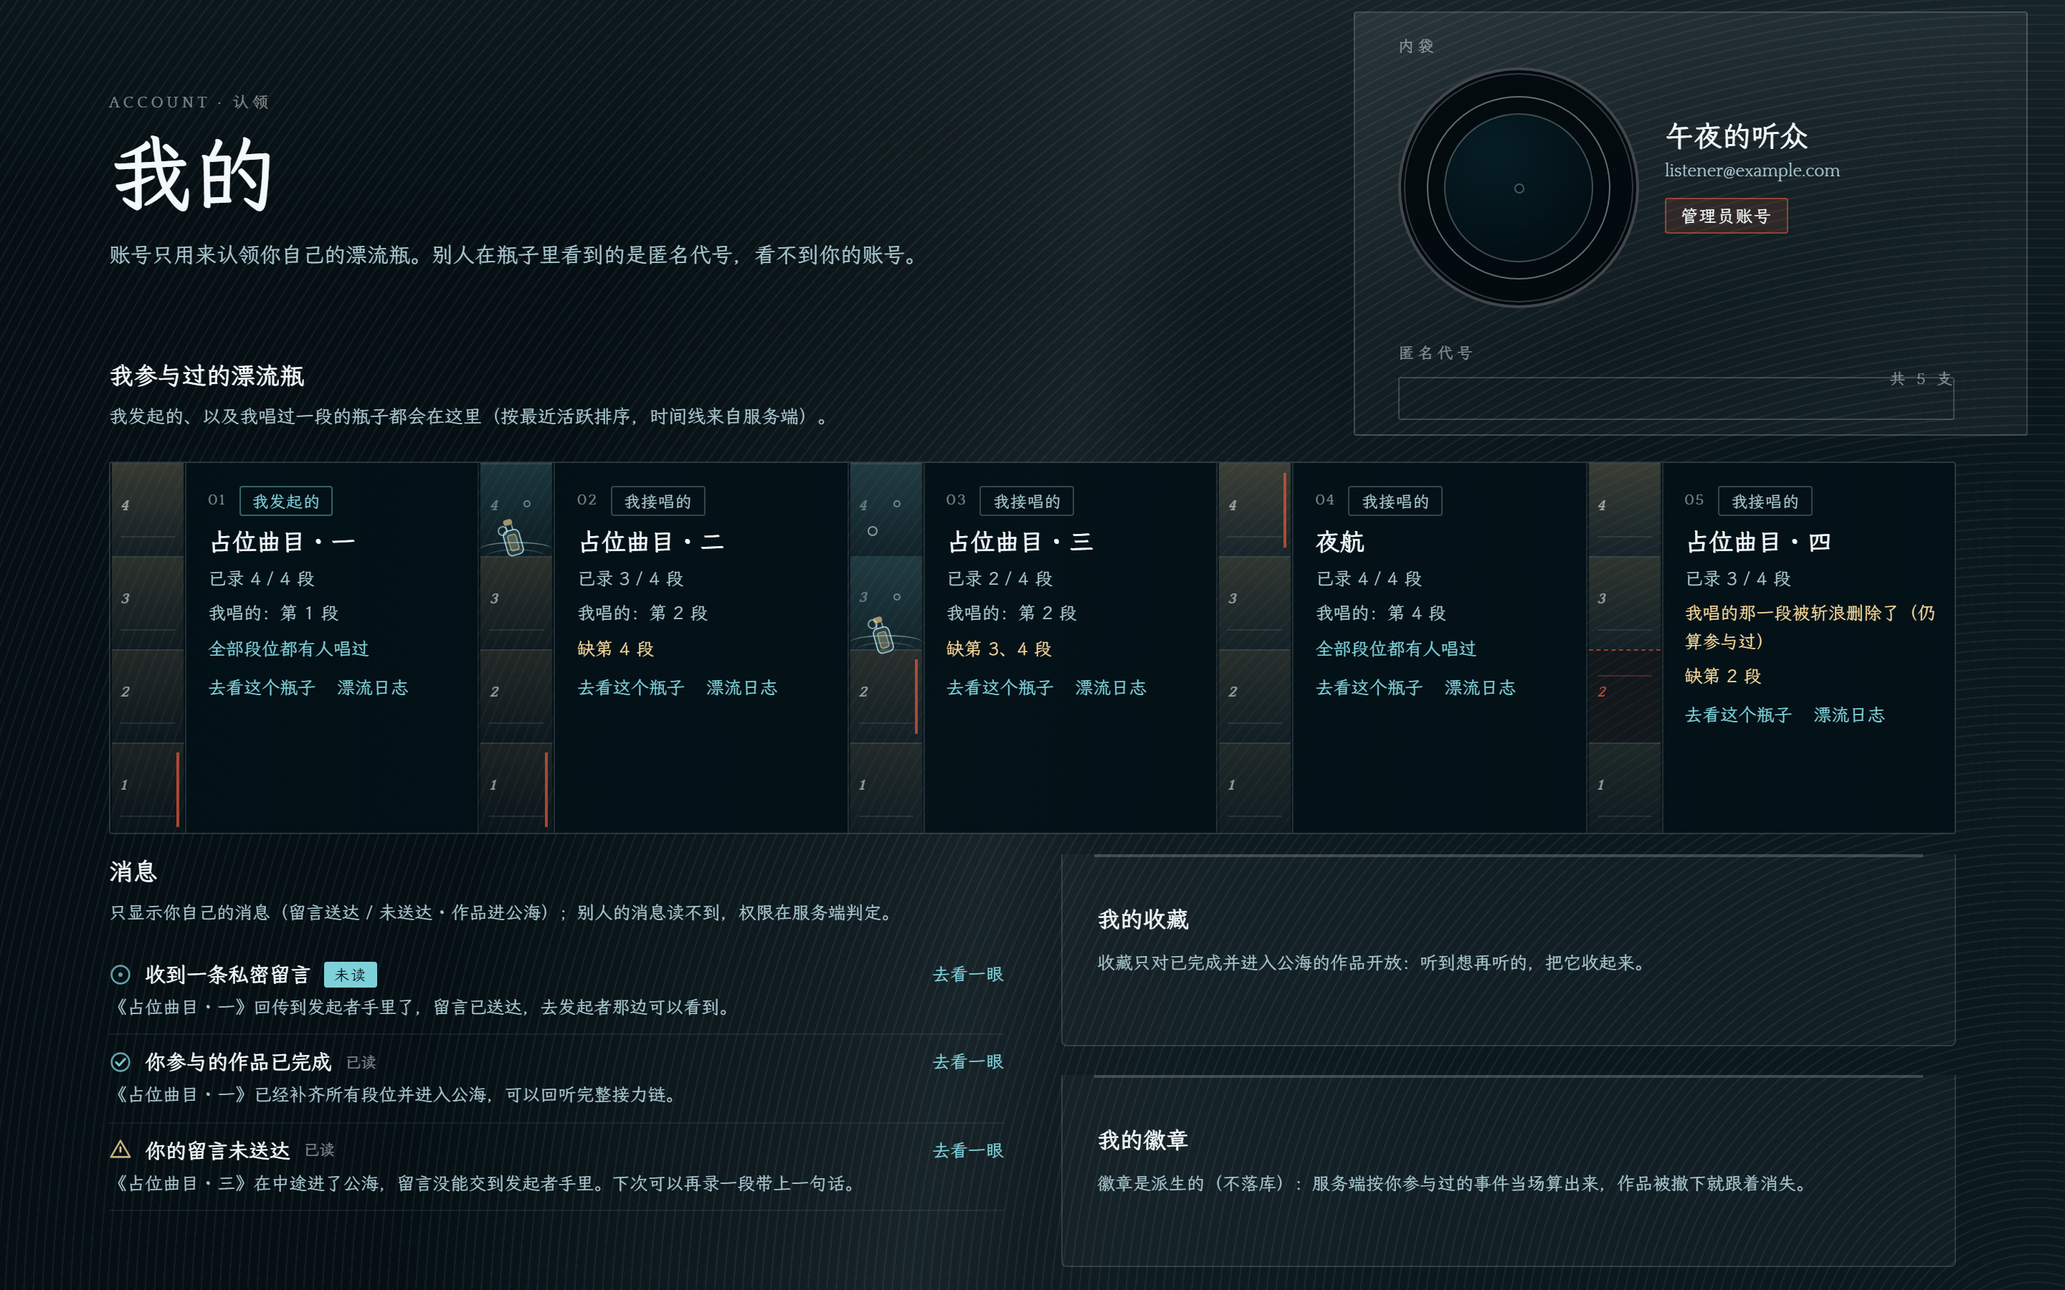
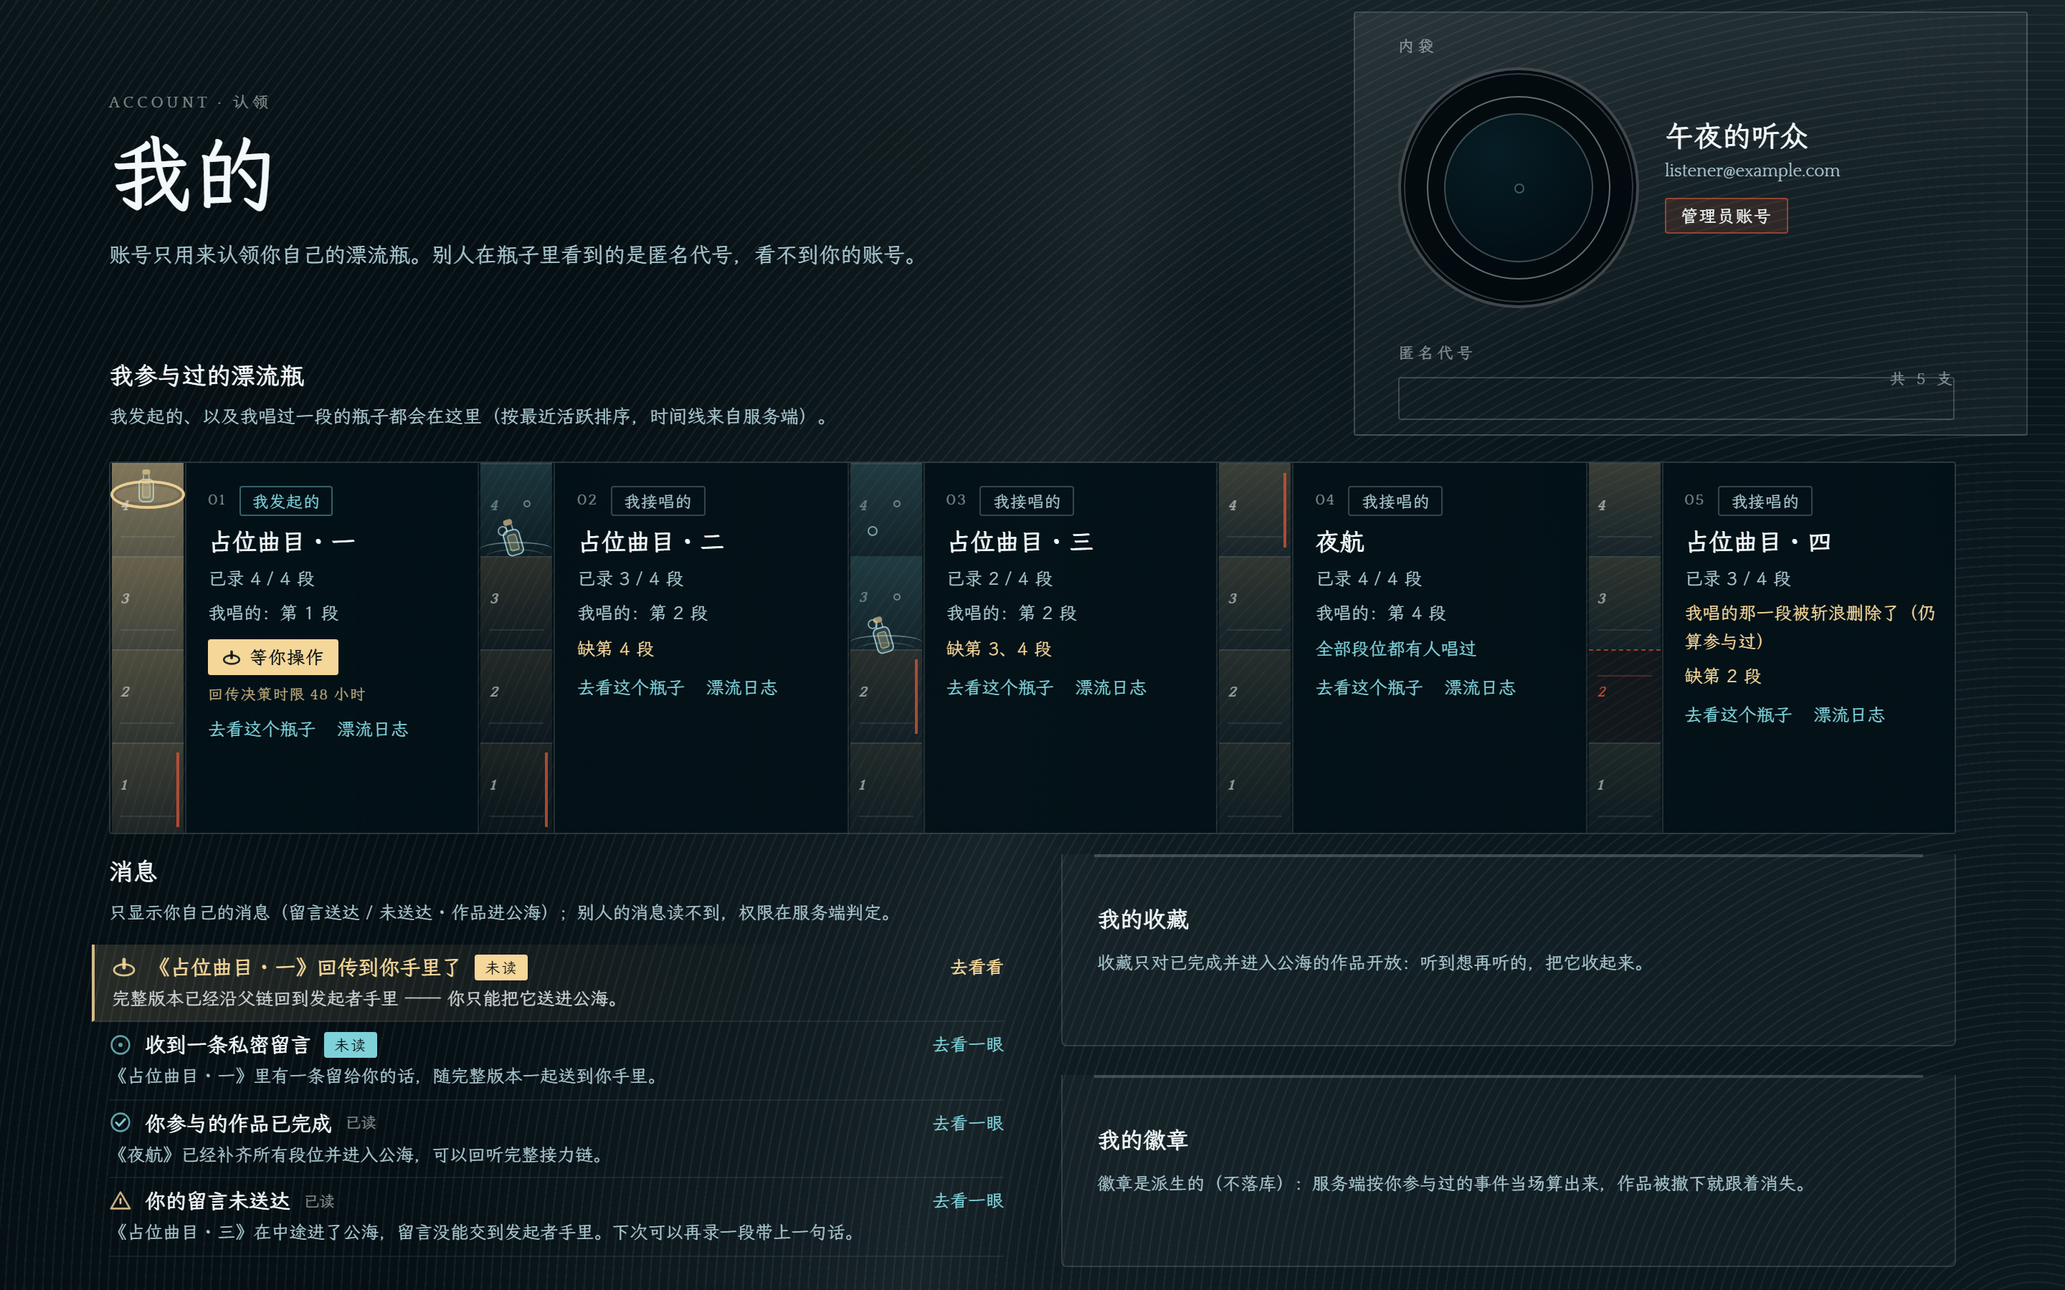
docs: 落地实施计划 —— 把 record-v1 定稿实现为真实前端（含契约重写授权、迁移策略、8 个切片）
用户裁决：现在就把 11 页定稿实现为真实前端；先不改后端；现在就做响应式（375 不再推后）；授权重写 DESIGN.md 契约。

计划里先讲清三条会翻车的硬约束：① 设计稿是 1440x900 固定画布绝对定位，真实前端必须响应式（375 不溢出 / 网格 768 折单列 / 可点 ≥44px / 页面禁内联 hex）—— 所以这是『保留语言与装置、重排布局』而不是翻译像素；② 契约是唯一真相且被 tokens.test.ts 机器守卫（front matter colors 形状固定、≥30 条、theme.css 不得出现色板外 hex）；③ 不能大爆炸换色板（现有 12 页大量用旧 token 类名，一次换名整个 app 编译不过）⇒ 采用**别名 re-point 过渡**，逐片迁移，最后删别名并加『禁旧名』守卫。

并按要求**逐条列出必须改的守卫**（G1 rounded 基准 12px→2px；G2 语义键保留断言只换值；G3 theme.css 禁色板外 hex 保持不变；G4 design-discipline 不放宽、375 规则现在生效；G5 各页测试随切片更新）。8 个切片：S1 契约底座 / S2 母题与组件层 / S3 河道页 / S4 瓶子详情+选歌 / S5 公海两页 / S6 我的+设置+404 / S7 登录+审核台 / S8 收尾删别名。

diff --git a/docs/ui-review/design-explore/p-profile-record.html b/docs/ui-review/design-explore/p-profile-record.html
@@ -91,6 +91,16 @@
       .float { position:absolute; left:14px; z-index:3; }
       .f200 { bottom:192px; }
       .f133 { bottom:124px; }
+      /* ── 回航泊位：全页只有"沿父链回到我手里、正等我发落"的那一支有 ——
+             水面的光只打在它这一格上（其余四支还沉在水下），
+             柱口套一枚暖色系缆环，瓶子不再斜漂、立在环里；
+             环与文字区那枚暖牌是同一个记号，一个在柱上、一个在字里。 ─────── */
+      .lay .shaft { left:0; top:0; width:50px; height:260px;
+        background:linear-gradient(180deg, rgba(246,215,154,.38), rgba(246,215,154,.20) 52%, rgba(246,215,154,.09)); }
+      .lay .hoop { left:-1px; top:12px; width:52px; height:20px; border-radius:50%; z-index:4;
+        border:2px solid rgba(246,215,154,.9); }
+      .lay .hoop::before { content:''; position:absolute; inset:2px; border-radius:50%; background:rgba(246,215,154,.14); }
+      .fstand { left:17px; top:3px; }
       /* 文字压在暗色渐变上：柱子在左，文字在右，互不打架 */
       .veil { position:absolute; left:52px; right:0; top:0; bottom:0; border-left:1px solid rgba(243,249,250,.13);
         background:linear-gradient(90deg, rgba(3,17,23,.86), rgba(3,17,23,.93)); }
@@ -106,10 +116,17 @@
       .d { margin-top:5px; font-size:12.5px; line-height:1.55; color:var(--muted); }
       .d.ok { color:var(--glass); }
       .d.warn { color:var(--warm); }
+      /* 唯一的"要你动手"状态：全页仅此一枚实心暖牌（其余状态都是灰/冷/暖的纯文字），
+         牌里的环＋立瓶＝柱口那枚系缆环，两处是同一个记号 */
+      .st { margin-top:8px; display:inline-flex; align-items:center; gap:6px; padding:4px 10px; border-radius:2px;
+        background:var(--warm); color:var(--ink); font-size:12.5px; font-weight:700; letter-spacing:.04em; }
+      .st svg { display:block; flex:none; }
+      .due { margin-top:6px; font-family:Quattrocento,'LXGW WenKai',serif; font-size:10.5px;
+        letter-spacing:.08em; color:rgba(246,215,154,.76); }
       .lk { margin-top:9px; display:flex; gap:15px; font-size:12.5px; color:var(--glass); }
 
       /* ── 内袋：从柜里抽出来，压在柜口上。中心孔是纸被挖掉的一块，
-            透出来的标签盘还没印字 —— 这张唱片上不存在"你的代号" ─────── */
+             透出来的标签盘还没印字 —— 这张唱片上不存在"你的代号" ─────── */
       .bleed { position:absolute; inset:0; overflow:hidden; z-index:5; pointer-events:none; }
       .sleeve { position:absolute; right:26px; top:8px; width:470px; height:296px; border-radius:2px;
         border:1px solid rgba(243,249,250,.18);
@@ -138,8 +155,8 @@
       .msgs { position:absolute; left:0; top:0; width:624px; }
       .msgs h2 { font-size:17px; font-weight:700; }
       .msgs .msub { margin-top:8px; font-size:12.5px; line-height:1.6; color:var(--muted); max-width:600px; }
-      .msgs ul { list-style:none; margin-top:14px; }
-      .msgs li { display:flex; flex-direction:column; gap:4px; padding:9px 0;
+      .msgs ul { list-style:none; margin-top:12px; }
+      .msgs li { display:flex; flex-direction:column; gap:3px; padding:6px 0;
         border-bottom:1px solid rgba(243,249,250,.07); }
       .mrow { display:flex; align-items:center; gap:9px; }
       .mrow svg { display:block; flex:none; }
@@ -149,6 +166,14 @@
       .mrow .read { font-size:11px; color:rgba(243,249,250,.5); }
       .mrow .go { margin-left:auto; font-size:12.5px; color:var(--glass); }
       .mdet { font-size:12.5px; line-height:1.55; color:var(--muted); }
+      /* 回传提示：这条是"要你动手"，所以它得跟下面三条读起来不一样 ——
+         引线伸出正文栏、说明更亮、实心暖牌，牌面记号＝柱口那枚系缆环 */
+      .msgs li.hero { margin-left:-12px; padding-left:12px; border-left:2px solid rgba(246,215,154,.85);
+        background:linear-gradient(90deg, rgba(246,215,154,.14), rgba(246,215,154,0) 80%); }
+      .msgs li.hero .lab { color:var(--warm); }
+      .msgs li.hero .mdet { color:rgba(243,249,250,.82); }
+      .msgs li.hero .pill { background:var(--warm); color:var(--ink); }
+      .msgs li.hero .go { color:var(--warm); font-weight:700; }
 
       .pockets { position:absolute; left:664px; top:0; width:624px; height:288px;
         display:flex; flex-direction:column; gap:20px; }
@@ -202,19 +227,23 @@
         <div class="window">
           <ul>
             <li>
-              <span class="lay" aria-hidden="true">
+              <span class="lay ret" aria-hidden="true">
+                <i class="shaft"></i>
                 <i class="b1 sd mine"><b class="no">1</b></i>
                 <i class="b2 sd"><b class="no">2</b></i>
                 <i class="b3 sd"><b class="no">3</b></i>
                 <i class="b4 sd"><b class="no">4</b></i>
+                <i class="hoop"></i>
               </span>
+              <svg class="float fstand" width="16" height="26" viewBox="0 0 22 34" fill="none" aria-hidden="true"><rect x="7.2" y="1.2" width="7.6" height="5" rx="2" fill="rgba(246,215,154,.62)"/><path d="M8.4 6.4v4.4M13.6 6.4v4.4" stroke="rgba(203,238,246,.62)" stroke-width="1.1"/><rect x="4.2" y="10.8" width="13.6" height="21.4" rx="4" fill="rgba(127,209,217,.16)" stroke="rgba(203,238,246,.72)" stroke-width="1.2"/><rect x="7.4" y="14.6" width="7.2" height="13.6" rx="2" fill="rgba(246,215,154,.24)" stroke="rgba(246,215,154,.55)" stroke-width="1"/></svg>
               <span class="veil" aria-hidden="true"></span>
               <div class="txt">
                 <div class="r1"><span class="slot">01</span><span class="role mine">我发起的</span></div>
                 <p class="t">占位曲目 · 一</p>
                 <p class="d">已录 4 / 4 段</p>
                 <p class="d">我唱的：第 1 段</p>
-                <p class="d ok">全部段位都有人唱过</p>
+                <p class="st"><svg width="13" height="13" viewBox="0 0 13 13" fill="none" aria-hidden="true"><ellipse cx="6.5" cy="8.2" rx="5.4" ry="3" stroke="rgba(5,15,20,.88)" stroke-width="1.3"/><rect x="5.6" y="1.7" width="1.8" height="6.3" rx="0.9" fill="rgba(5,15,20,.88)"/></svg>等你操作</p>
+                <p class="due">回传决策时限 48 小时</p>
                 <p class="lk"><span>去看这个瓶子</span><span>漂流日志</span></p>
               </div>
             </li>
@@ -299,6 +328,15 @@
           <h2>消息</h2>
           <p class="msub">只显示你自己的消息（留言送达 / 未送达 · 作品进公海）；别人的消息读不到，权限在服务端判定。</p>
           <ul>
+            <li class="hero">
+              <div class="mrow">
+                <svg width="17" height="17" viewBox="0 0 17 17" fill="none" aria-hidden="true"><ellipse cx="8.5" cy="10.7" rx="7" ry="3.9" stroke="rgba(246,215,154,.88)" stroke-width="1.4"/><rect x="7.3" y="2.2" width="2.4" height="8.2" rx="1.2" fill="rgba(246,215,154,.9)"/></svg>
+                <span class="lab">《占位曲目 · 一》回传到你手里了</span>
+                <span class="pill">未读</span>
+                <span class="go">去看看</span>
+              </div>
+              <p class="mdet">完整版本已经沿父链回到发起者手里 —— 你只能把它送进公海。</p>
+            </li>
             <li>
               <div class="mrow">
                 <svg width="16" height="16" viewBox="0 0 16 16" fill="none" aria-hidden="true"><circle cx="8" cy="8" r="6.2" stroke="rgba(127,209,217,.75)" stroke-width="1.3"/><circle cx="8" cy="8" r="1.5" fill="rgba(127,209,217,.75)"/></svg>
@@ -306,7 +344,7 @@
                 <span class="pill">未读</span>
                 <span class="go">去看一眼</span>
               </div>
-              <p class="mdet">《占位曲目 · 一》回传到发起者手里了，留言已送达，去发起者那边可以看到。</p>
+              <p class="mdet">《占位曲目 · 一》里有一条留给你的话，随完整版本一起送到你手里。</p>
             </li>
             <li>
               <div class="mrow">
@@ -315,7 +353,7 @@
                 <span class="read">已读</span>
                 <span class="go">去看一眼</span>
               </div>
-              <p class="mdet">《占位曲目 · 一》已经补齐所有段位并进入公海，可以回听完整接力链。</p>
+              <p class="mdet">《夜航》已经补齐所有段位并进入公海，可以回听完整接力链。</p>
             </li>
             <li>
               <div class="mrow">

diff --git a/docs/impl-plan-record-v1.md b/docs/impl-plan-record-v1.md
@@ -1,0 +1,73 @@
+# 实施计划：把 record-v1 定稿实现为真实前端
+
+> 用户裁决（2026-09-23）：**现在就把 11 页定稿实现为项目真实前端**；**先不改后端**；
+> **现在就做响应式**（不再把 375 推后）；**授权重写 `DESIGN.md` 契约**（连带 theme.css / tokens.ts / motion.css / 守卫）。
+>
+> 本计划遵守 AGENTS.md：阶段③之后逐片走 红→绿→重构（阶段④）、每片停下等用户验收（§6）、
+> 改守卫必须显式列出（§4/§5）。
+
+## 0. 三条硬约束（先说清，否则会翻车）
+
+1. **设计稿是 1440×900 固定画布、绝对定位；真实前端必须是响应式的。**
+   所以这不是"翻译像素"，而是**保留语言与装置、重排布局**：375 不横向溢出、多列网格 768px 以下折单列、可点目标 ≥44px、**页面不得内联 hex**。
+2. **契约是唯一真相，且被机器守卫。** `tokens.test.ts` 把 `DESIGN.md` 的 front matter `colors:` 当唯一真相
+   （形状固定 `  名字: "#RRGGBB"`、要求 ≥30 条、含 `success-tint` 等键），并断言 **theme.css 不得出现色板外的 hex**。
+3. **不能大爆炸换色板**：现有 12 个页面大量使用旧 token 类名（`text-abyss` / `bg-wave-white` / `text-slate-current` …）。
+   一次性换名会让**整个 app 编译不过**。迁移策略见 §2。
+
+## 1. 新契约（record-v1）要写什么
+
+### 1.1 色板（≥30 条，保持 front matter 机器可读形状）
+| 组 | token | 值（来自 11 页实测） |
+| --- | --- | --- |
+| 基底 | `ink` | `#050F14` |
+| 文字 | `paper` / `muted` | `#F3F9FA` / `#A9C7CF` |
+| 强调（唯一） | `coral` | `#D4553A` |
+| 暖光 | `warm` | `#F6D79A` |
+| 冷光 | `glass` | `#7FD1D9` |
+| **水光冷色族**（实测高频手写值，本次收成 token） | `water-light` / `water-mid` / `water-deep` / `water-void` | `#EAFCFF` / `#CBEEF6` / `#E4F7FC` / `#031117` |
+| 边界线 | `line` | `#D8F3F6`（岸线用）/ 及 `rgba` 派生规则写在正文 |
+| 语义四件套 | `success` / `warning` / `danger` / `info` + 各自 `-tint` / `-border` | 深底适配（现有 tint 是浅色底用的，必须重算） |
+| 过渡别名（迁移期） | 旧名保留并**re-point 到新值** | 见 §2 |
+
+### 1.2 其余契约
+- `rounded`：**基准 12px → 2px**（新语言：`0 / 1px / 2px / 4px / 999 / 50%`）。
+- `typography`：保留字体（LXGW WenKai + Quattrocento）与既有命名档；字号按实测阶梯收敛（56/58 hero、17、15、12.5、11 + `.24em` 元信息）。
+- `layout`：`containerMaxWidth 1280`（1440 − 2×76 ≈ 1288 ✓ 保留）、`mobileFloor 375`、`collapseBreakpoint 768`、`touchTargetMin 44`（**不变**）。
+- `z-index` / `motion` / `spring`：**沿用现有值不动**（动效语言不是本次变更对象），只补一条新语言规则：
+  **装饰零动效**（母题层不做动画），动效只用于状态过渡且只动 `transform`/`opacity`。
+- 新增 `motif` 组：platter（盘面沟槽：周期/线宽/alpha）、glint（掠光）、waterline（水线）、ripple、bottleMark。
+
+### 1.3 **必须显式列出的守卫改动**（用户要求逐条可见）
+| # | 文件 | 改动 | 为什么必须改 |
+| --- | --- | --- | --- |
+| G1 | `design-system/__tests__/tokens.test.ts` | 「rounded 基准 12px」那条断言的期望值 → **基准 2px** 的新档位 | 新语言的圆角纪律就是 0/1/2/4/999/50%，12px 基准已不存在 |
+| G2 | 同上 | 色板必需键（`success-tint`/`warning-tint`/…）**保留断言不变**，只换值 | 语义四件套仍需要，且在深底上要重算 |
+| G3 | 同上 | `theme.css`「不得出现色板外 hex」断言**保持不变**（这是它的价值） | 迁移期别名必须指向色板内已有的值，不得新写 hex |
+| G4 | `pages/__tests__/design-discipline.test.ts` | **不放宽任何一条**；375 规则现在生效 | 用户已裁决"现在就做响应式" |
+| G5 | 各页既有测试（`bottle-page.test.tsx` 等 106 个文件） | 随对应页面切片更新（每片单独列出） | 页面重做后断言会变，属预期 |
+
+## 2. 迁移策略：别名过渡（保证每片结束时代码都能编译）
+
+1. **S1** 在色板里同时提供**新名**与**旧名别名**：旧名（`wave-white` / `abyss` / `slate-current` / `peacock` / `sea-glass` / `ocean` 系）
+   **re-point 到新值**（语义同角色映射：`wave-white`→`ink` 底、`abyss`→`paper` 正文…）。此时 app **仍能编译**，但观感开始变。
+2. 之后每片把该页的类名从旧名换成新名。
+3. **S8** 删除全部别名，并给守卫加一条：**不得再出现旧名**（防止回潮）。
+
+## 3. 切片（每片：红 → 绿 → 重构，然后停下等验收）
+
+| 片 | 内容 | 主要文件 | 验证命令 |
+| --- | --- | --- | --- |
+| **S1** | 契约底座：DESIGN.md v2 + theme.css 重写（新色板 + 别名）+ tokens.ts 同步 + motion.css 对齐 + 守卫 G1 | `DESIGN.md`、`design-system/theme.css`、`tokens.ts`、`motion.css`、`__tests__/tokens.test.ts` | `pnpm --filter @music-drift/web test`、`pnpm -r typecheck`、`pnpm lint` |
+| **S2** | 母题与组件层：`water.css`/`wave.tsx` 重做为 platter/glint/groove/waterline/ripple/bottleMark；`Button`（圆盘+外环）/`Card`/`Tabs`/`Input`/`EmptyState`/`Nav`/`Icon` 按新语言重做；`showcase` 更新 | `design-system/*`、`showcase/*` | 同上 + 打开 showcase 目视 |
+| **S3** | **河道页**（标杆，含捞/投圆盘泊位、默认态无瓶、无段号） | `pages/river-page.tsx` + 其测试 | `pnpm --filter @music-drift/web test`、`node apps/web/tools/one-screen-check.mjs --viewport=1440x900`、375 检查 |
+| **S4** | 瓶子详情（录制/接力/三选一/放回）+ 选一首歌 | `pages/bottle-page.tsx`、`song-picker-page.tsx` | 同上 |
+| **S5** | 公海大厅 + 公海作品详情 | `pages/sea-page.tsx`、`sea-detail-page.tsx` | 同上 |
+| **S6** | 我的（**含回传提示 + 「等待操作」状态**，后端未支持故前端降级）+ 设置 + 404 | `pages/profile-page.tsx`、`settings-page.tsx`、`not-found-page.tsx` | 同上 |
+| **S7** | 登录/注册 + 审核台（含非管理员态） | `pages/login-page.tsx`、`admin-page.tsx` | 同上 |
+| **S8** | 收尾：删废弃别名 + 守卫加"禁旧名" + 清 docs 稿 + 更新 ADR/CONTEXT 连带项（回传通知的实现依赖、登录两项的有意偏离） | 多文件 | `pnpm -r test`、`pnpm -r typecheck`、`pnpm lint` 全绿 + 用户验收 |
+
+## 4. 需要用户后续裁决的连带项（现在不改，先记账）
+1. **回传提示**需要后端新增通知类型（`BOTTLE_RETURNED`）与"待你操作"状态 —— 本轮前端只能按设计实现并**在前端降级**（无数据时不显示），**联调要等后端**。
+2. **登录去掉邮箱**是对源码/接口的有意偏离（契约 §3 已记），实现时要么改后端契约、要么保留字段但不出现在本页 —— 本轮按"不出现在本页"实现。
+3. 河道页设计师稿里的三项契约欠账（旧珊瑚 / 无 `.clip` / 缺 `--warm`）在真实实现里**自然消失**（会用新 token 与容器重写）。
